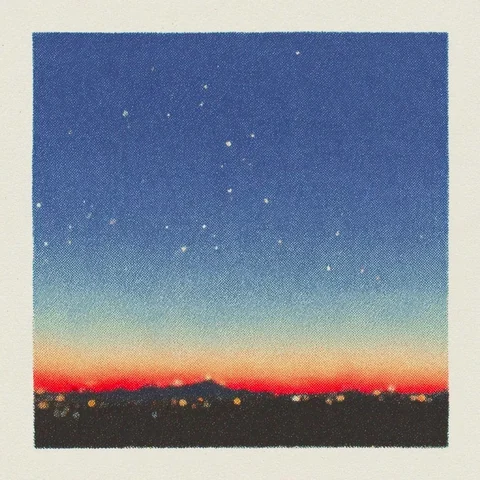
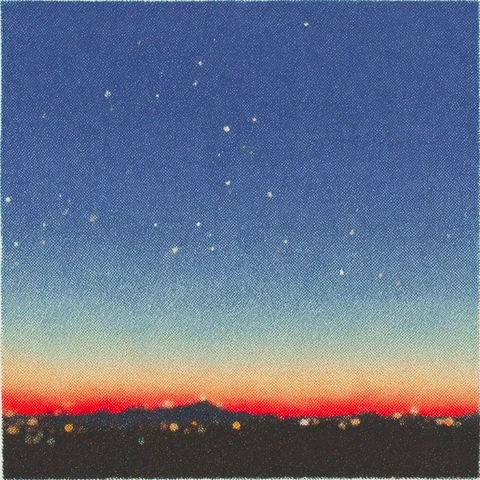
Use white loading screen background and crop paper border from dawn sky art

diff --git a/about.css b/about.css
@@ -22,7 +22,7 @@ header, main, .raj-note { transition: opacity .28s ease-out; }
     display: flex;
     align-items: center;
     justify-content: center;
-    background-color: #e8e6da;
+    background-color: #ffffff;
     pointer-events: none;
     opacity: 0;
     visibility: hidden;
@@ -64,16 +64,10 @@ body.page-loading .loading-screen {
     inset: 0;
     width: 100%;
     height: 100%;
-    object-fit: contain;
+    object-fit: cover;
     pointer-events: none;
     user-select: none;
     -webkit-user-drag: none;
-    -webkit-mask-image: linear-gradient(to right, transparent 0%, #000 3.5%, #000 96.5%, transparent 100%),
-                        linear-gradient(to bottom, transparent 0%, #000 3.5%, #000 96.5%, transparent 100%);
-    mask-image: linear-gradient(to right, transparent 0%, #000 3.5%, #000 96.5%, transparent 100%),
-                linear-gradient(to bottom, transparent 0%, #000 3.5%, #000 96.5%, transparent 100%);
-    -webkit-mask-composite: source-in;
-    mask-composite: intersect;
 }
 .loading-rider-bob {
     position: absolute;

diff --git a/style.css b/style.css
@@ -63,7 +63,7 @@ body.page-loading .scene-container {
     display: flex;
     align-items: center;
     justify-content: center;
-    background-color: #e8e6da;
+    background-color: #ffffff;
     pointer-events: none;
     opacity: 0;
     visibility: hidden;
@@ -110,16 +110,10 @@ body.page-loading .loading-screen {
     inset: 0;
     width: 100%;
     height: 100%;
-    object-fit: contain;
+    object-fit: cover;
     pointer-events: none;
     user-select: none;
     -webkit-user-drag: none;
-    -webkit-mask-image: linear-gradient(to right, transparent 0%, #000 3.5%, #000 96.5%, transparent 100%),
-                        linear-gradient(to bottom, transparent 0%, #000 3.5%, #000 96.5%, transparent 100%);
-    mask-image: linear-gradient(to right, transparent 0%, #000 3.5%, #000 96.5%, transparent 100%),
-                linear-gradient(to bottom, transparent 0%, #000 3.5%, #000 96.5%, transparent 100%);
-    -webkit-mask-composite: source-in;
-    mask-composite: intersect;
 }
 
 .loading-rider-bob {

diff --git a/interactive.html b/interactive.html
@@ -9,7 +9,7 @@
     <title>Interactive Layered Portfolio</title>
     <link rel="preload" as="image" href="assets/loading/dawn_sky_bg.webp" type="image/webp" fetchpriority="high">
     <link rel="preload" as="image" href="assets/loading/seiji_spritesheet.webp" type="image/webp" fetchpriority="high">
-    <link rel="stylesheet" href="style.css?v=55">
+    <link rel="stylesheet" href="style.css?v=56">
     <link rel="stylesheet" href="meeting.css?v=1">
     <link rel="preload" as="image" href="assets/a/park_pavement_sunlight.png">
     <link rel="preload" as="image" href="assets/a/black%20_background.png">

diff --git a/about.html b/about.html
@@ -8,7 +8,7 @@
     <link rel="preload" as="image" href="assets/loading/dawn_sky_bg.webp" type="image/webp" fetchpriority="high">
     <link rel="preload" as="image" href="assets/loading/seiji_spritesheet.webp" type="image/webp" fetchpriority="high">
     <link rel="preload" as="image" href="assets/raj-reading.webp" type="image/webp">
-    <link rel="stylesheet" href="about.css?v=30">
+    <link rel="stylesheet" href="about.css?v=33">
 </head>
 <body class="page-loading">
     <!-- Seiji Waving Bicycle Loading Screen -->

diff --git a/index.html b/index.html
@@ -8,7 +8,7 @@
     <link rel="preload" as="image" href="assets/loading/dawn_sky_bg.webp" type="image/webp" fetchpriority="high">
     <link rel="preload" as="image" href="assets/loading/seiji_spritesheet.webp" type="image/webp" fetchpriority="high">
     <link rel="preload" as="image" href="assets/raj-reading.webp" type="image/webp">
-    <link rel="stylesheet" href="about.css?v=30">
+    <link rel="stylesheet" href="about.css?v=33">
 </head>
 <body class="page-loading">
     <!-- Seiji Waving Bicycle Loading Screen -->
